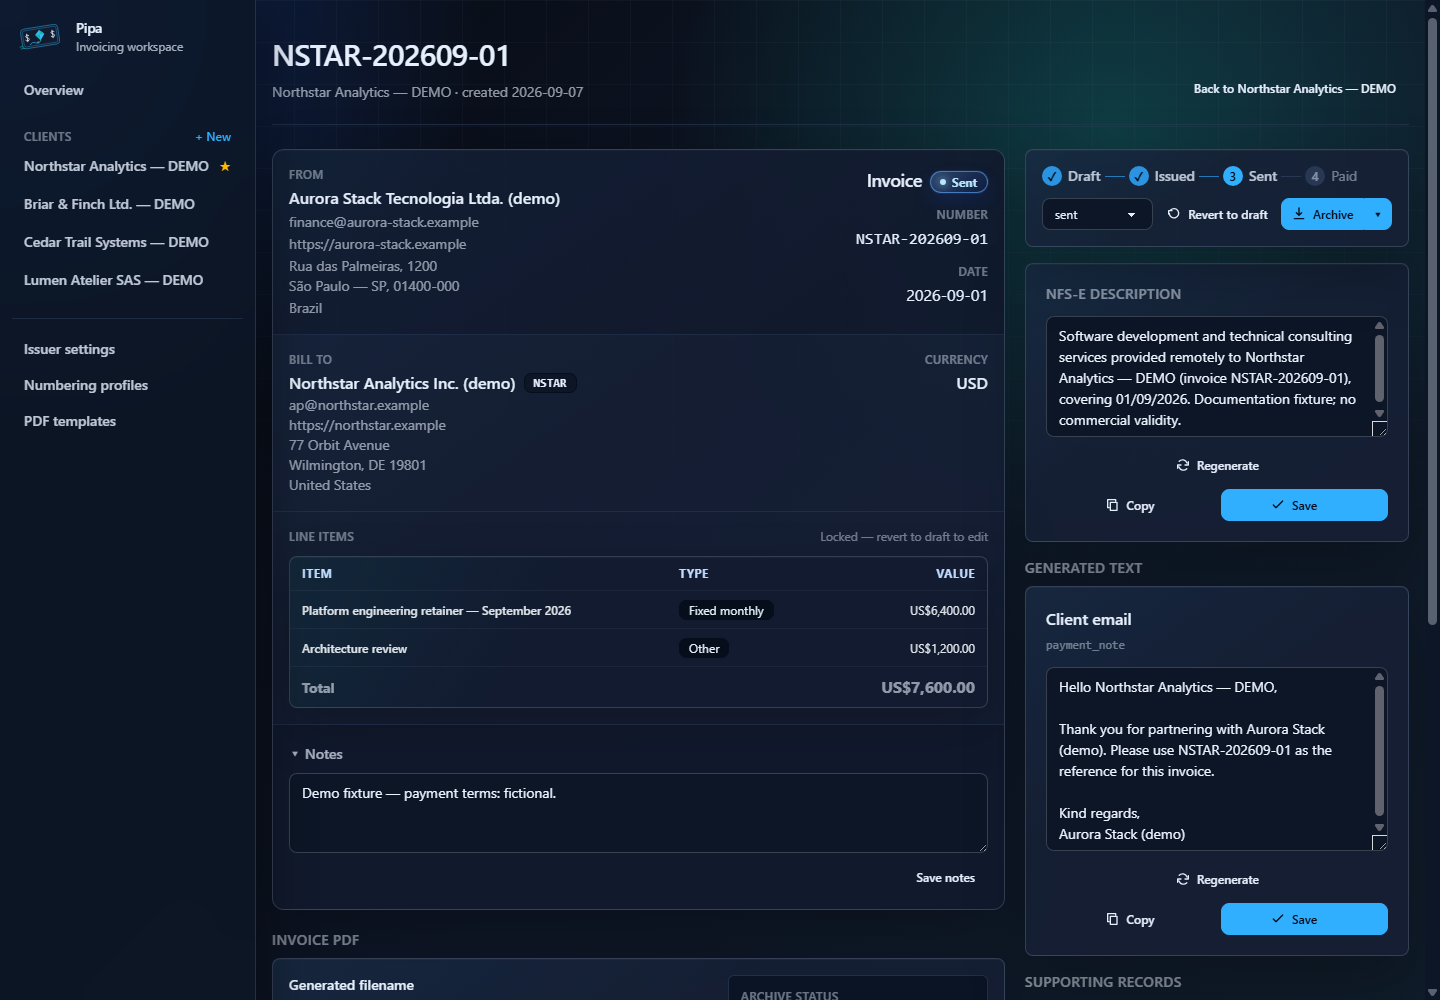
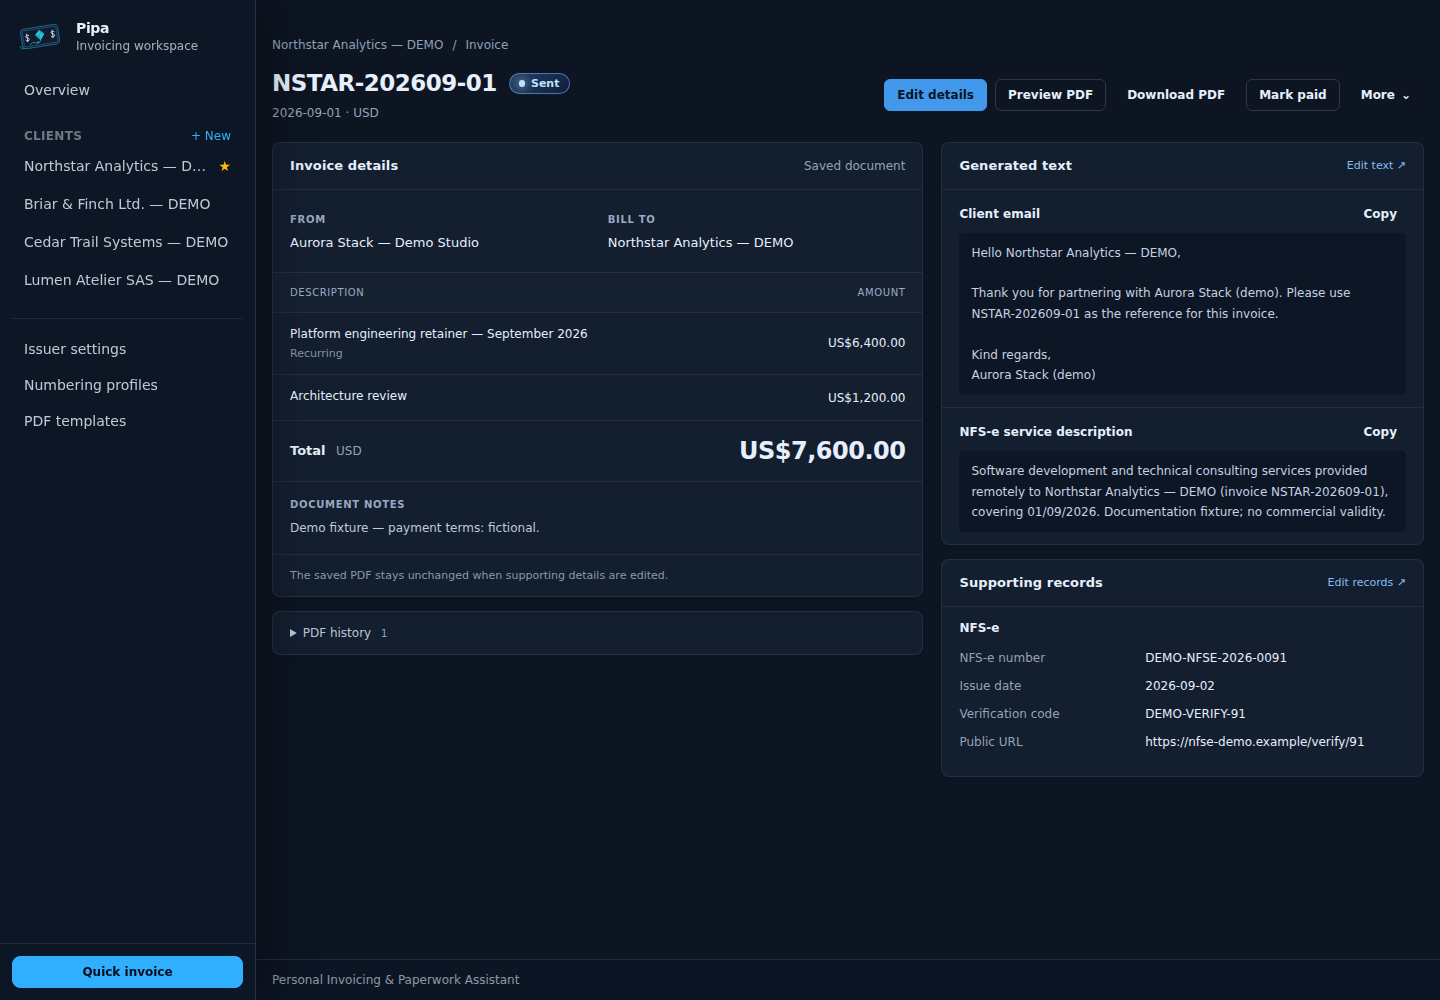
docs: refresh invoice screenshots and add PDF preview gallery

diff --git a/docs/demo.md b/docs/demo.md
@@ -15,10 +15,26 @@ invoices are excluded.
 
 ## Invoice workspace
 
-An issued invoice marked sent, with line items, editable generated text, and
-supporting documentation alongside the invoice.
+A sent invoice with compact line items, copyable generated text, and supporting
+record values visible alongside the saved document.
 
 ![Invoice workspace with fictional data](images/invoice-workspace.png)
+
+## Invoice editor
+
+Document fields, text, notes, and supporting records share one continuous page
+and one **Save changes** action. This sent invoice has a locked document; its
+notes, generated text, and supporting records remain editable.
+
+![Continuous invoice editor with text, supporting fields, and one Save changes action](images/invoice-editor.png)
+
+## In-page PDF preview
+
+The PDF.js viewer displays the exact saved PDF without leaving the invoice or
+starting a download. It includes selectable text, page navigation, zoom, and a
+separate download action. The editor can also preview unsaved changes.
+
+![Saved fictional invoice displayed in the in-page PDF viewer](images/invoice-preview.png)
 
 ## Client document fields
 
@@ -69,9 +85,19 @@ data. Demo databases and archived files stay gitignored under `data/`.
 ## Refresh the images
 
 Capture the demo at a desktop viewport (these UI captures used 1440 × 1000 CSS
-pixels). Wait for fonts, styles, and transitions to settle. Use
-`/invoices/2` for the sent invoice and `/clients/1/edit?section=details` for the
-client field picker. Review captures for private data before committing them.
+pixels). Wait for fonts, styles, and transitions to settle. Capture these views:
+
+| Image | Route and state |
+| --- | --- |
+| `overview.png` | `/`, showing client totals and recent invoices |
+| `invoice-workspace.png` | `/invoices/2`, the saved sent invoice |
+| `invoice-editor.png` | `/invoices/2/edit`, after the editing session is ready |
+| `invoice-preview.png` | `/invoices/2`, click **Preview PDF** and wait for the page to finish rendering at **Fit page** zoom |
+| `client-field-picker.png` | `/clients/1/edit?section=details`, open the field picker |
+
+Capture the actual viewport with Playwright or a browser preview tool. Keep the
+Save bar visible in the editor capture. Review every image for private data
+before committing; do not use a populated personal installation.
 
 PDFs are generated through the ordinary invoice issue/archive workflow. The
 seed prints their local paths. With Poppler's `pdftoppm` installed, convert the

diff --git a/README.md b/README.md
@@ -47,15 +47,19 @@ Client workspaces and recent invoicing activity. All pictured data is fictional.
 
 ![Overview with fictional clients and invoices](docs/images/overview.png)
 
-An invoice workspace with editable generated text, status controls, and supporting records:
+A compact invoice overview with generated text, supporting field values, and document actions:
 
-![Invoice workspace with fictional overseas client and line items](docs/images/invoice-workspace.png)
+![Saved invoice overview with fictional line items, generated text, and supporting record values](docs/images/invoice-workspace.png)
+
+Preview the saved PDF in the app, with selectable text, zoom, page controls, and a separate download action:
+
+![In-page PDF preview of a fictional invoice](docs/images/invoice-preview.png)
 
 An actual generated invoice PDF, shown here as an image:
 
 <img src="docs/images/invoice-pdf.png" alt="Generated USD invoice PDF with fictional client details, line items, total, and payment information" width="640">
 
-See the [screenshot gallery and demo setup](docs/demo.md) for client configuration and images rendered from actual generated invoice PDFs.
+See the [screenshot gallery and demo setup](docs/demo.md) for the continuous invoice editor, client configuration, and images rendered from actual generated invoice PDFs.
 
 ## Install with Docker Compose (GHCR)
 
